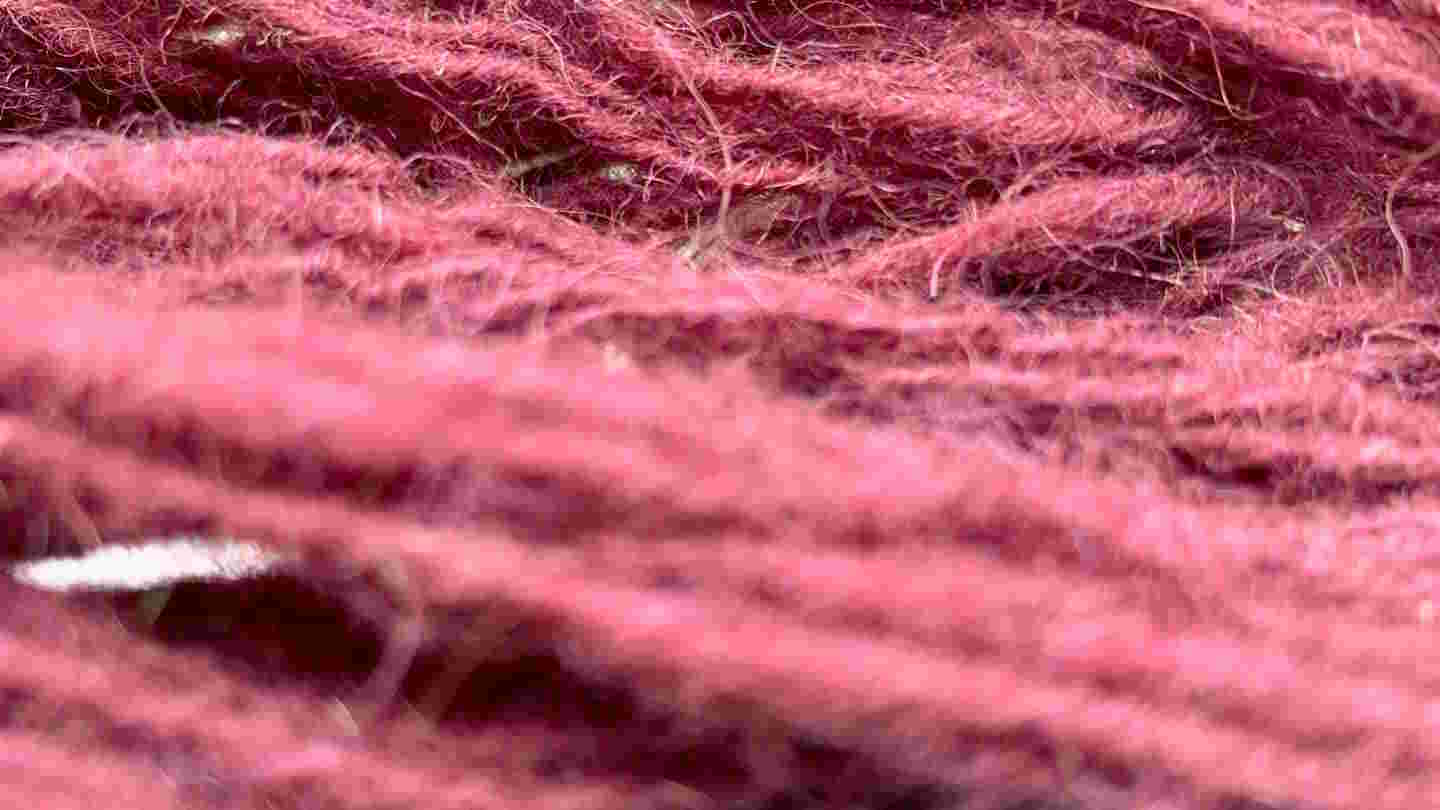
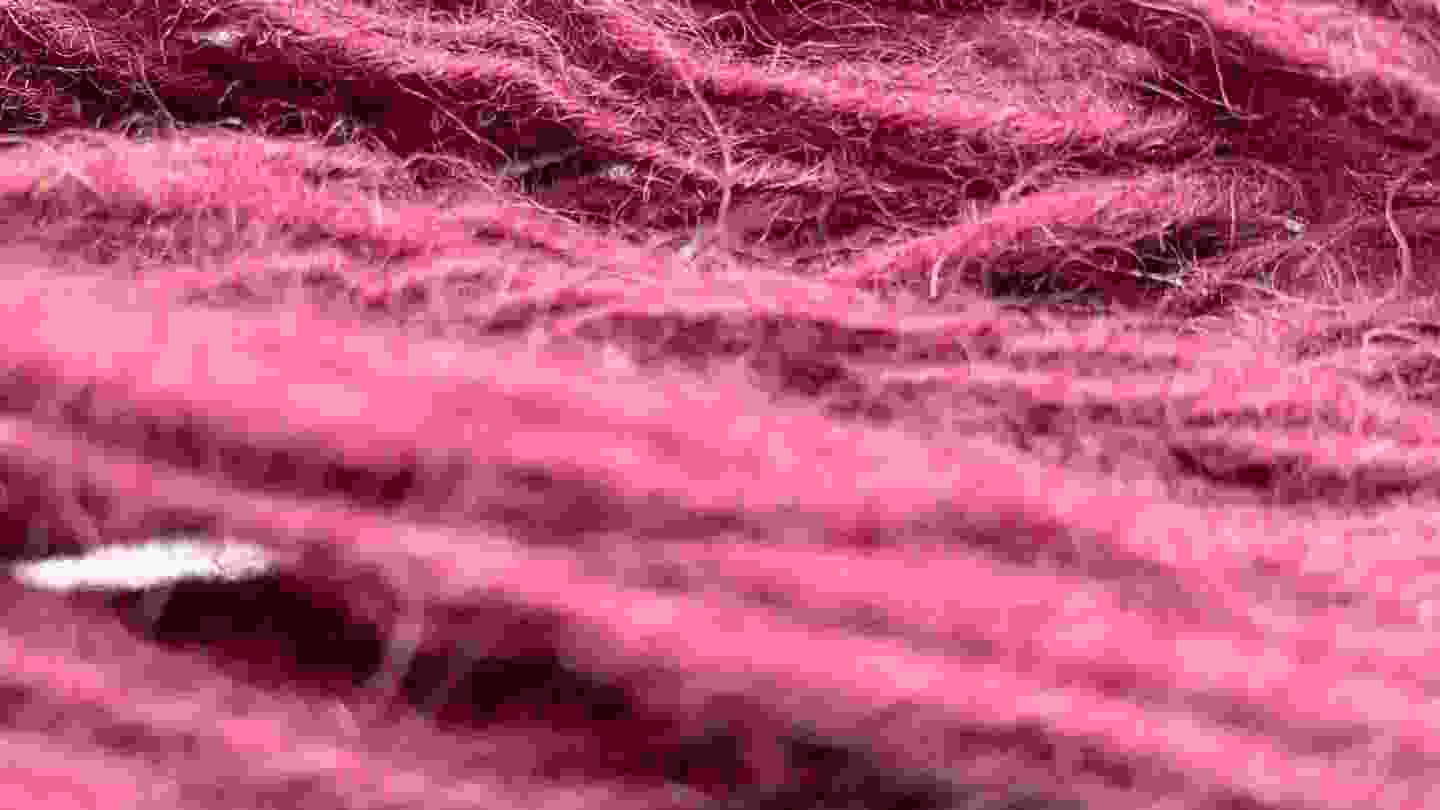
Images and video now using filter: blur() plus filter transitions instead of opacity transitions

Changed region(s): [[0.0, 0.0, 1.0, 1.0]]

diff --git a/src/js/initialise.ts b/src/js/initialise.ts
@@ -43,14 +43,14 @@ function initialise() {
 		// and read that here to set the transition-duration
 
 		// MDN says: (note that dashes are converted to camel case).
-		const heroTextTransitionDuration = heroImage
+		const heroTextTransitionDelay = heroImage
 			? heroImage.dataset.transitionDuration
 			: heroVideo.dataset.transitionDuration;
 		// Number() won't work to extract 2000 from "2000ms", use parseInt()
 		// consider adding a bit to this to give the transition a bit of room
-		console.log("herotextTransitionDuration: ", heroTextTransitionDuration);
-		console.log("Number(herotextTransitionDuration): ", parseInt(heroTextTransitionDuration));
-		setTimeout(handleHeroTextTransition, parseInt(heroTextTransitionDuration));
+		console.log("herotextTransitionDelay: ", heroTextTransitionDelay);
+		console.log("Number(herotextTransitionDuration): ", parseInt(heroTextTransitionDelay));
+		setTimeout(handleHeroTextTransition, parseInt(heroTextTransitionDelay));
 		// }
 	}
 
@@ -124,43 +124,9 @@ function initialise() {
 			playVideo(heroVideo);
 		}
 
-		// we only want the first canplay event
-		// (it fires after every time the video buffers)
-		// so remove this eventlistener
-		heroVideo.removeEventListener("canplay", canPlayCallback);
-		console.log("removing video event listener");
-
-		// show the hero text
-		console.log(`calling showHeroText function`);
-		showHeroText();
-	}
-
-	// callback function for the video element 'canplay' event fired by video when it's ready to play
-	// we can delete this now it's been replaced by handleVideoReady
-	function canPlayCallback() {
-		const eventTime = new Date();
-		console.log(`Can now play video: ${heroVideo.src}`);
-		console.log(
-			`canplay event fired: ${eventTime.getHours()}:${eventTime.getMinutes()}:${eventTime.getSeconds()}:${eventTime.getMilliseconds()}`
-		);
-		// const videoStatus = document.querySelector(".video-status");
-		// temp for testing
-		// videoStatus.innerHTML += `<p>Can now play video: ${heroVideo.src}</p>`;
-
-		// if video hasn't been set to autoplay by the VideoFullWidthComponent, play it now
-		if (heroVideo.dataset.autoplay == "false") {
-			console.log(`setting autoplay on ${heroVideo.src}`);
-
-			// play() follows the same rules as autoplay, and all modern browsers are cool with it
-			// so play() will do, maybe in a try catch if we want to handle the error
-			playVideo;
-		}
-
-		// we only want the first canplay event
-		// (it fires after every time the video buffers)
-		// so remove this eventlistener
-		heroVideo.removeEventListener("canplay", canPlayCallback);
-		console.log("removing video event listener");
+		// add the --show class to video container
+		// this will fade the filter blur out (transition filter blur(1rem) to filter blur(0))
+		heroVideo.parentElement?.classList.add("video-container--show");
 
 		// show the hero text
 		console.log(`calling showHeroText function`);

diff --git a/src/js/old/canplaycallback-function-old.js b/src/js/old/canplaycallback-function-old.js
@@ -1,0 +1,31 @@
+// callback function for the video element 'canplay' event fired by video when it's ready to play
+// we can delete this now it's been replaced by handleVideoReady
+function canPlayCallback() {
+	const eventTime = new Date();
+	console.log(`Can now play video: ${heroVideo.src}`);
+	console.log(
+		`canplay event fired: ${eventTime.getHours()}:${eventTime.getMinutes()}:${eventTime.getSeconds()}:${eventTime.getMilliseconds()}`
+	);
+	// const videoStatus = document.querySelector(".video-status");
+	// temp for testing
+	// videoStatus.innerHTML += `<p>Can now play video: ${heroVideo.src}</p>`;
+
+	// if video hasn't been set to autoplay by the VideoFullWidthComponent, play it now
+	if (heroVideo.dataset.autoplay == "false") {
+		console.log(`setting autoplay on ${heroVideo.src}`);
+
+		// play() follows the same rules as autoplay, and all modern browsers are cool with it
+		// so play() will do, maybe in a try catch if we want to handle the error
+		playVideo;
+	}
+
+	// we only want the first canplay event
+	// (it fires after every time the video buffers)
+	// so remove this eventlistener
+	heroVideo.removeEventListener("canplay", canPlayCallback);
+	console.log("removing video event listener");
+
+	// show the hero text
+	console.log(`calling showHeroText function`);
+	showHeroText();
+}
